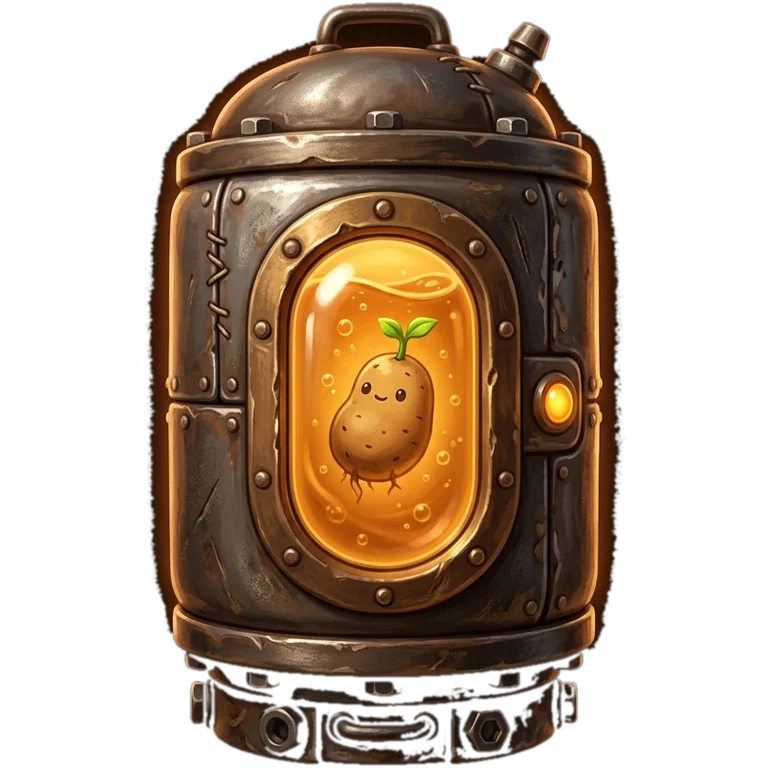
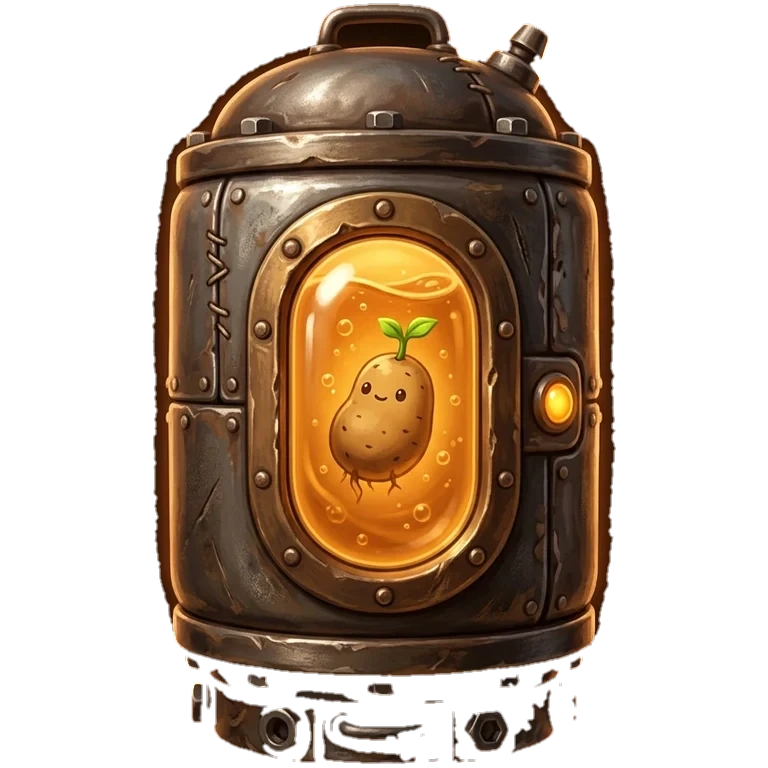
fix(web): честная альфа у гидромодулей вместо срезающей маски
Капсулы cassette-{common,rare,epic}.webp были вырезаны из чёрного фона
грубой мягкой маской: по краю тянулся тёмный подтёк фона (медиана яркости
полупрозрачных пикселей 7–8 при яркости самого модуля 68–77), и края рваные.
В CSS это маскировали `mix-blend-mode: screen` и эллиптической маской —
она-то и срезала края вместе с модулем (жалоба: «на капсулах неаккуратно
обрезан фон»).

Что сделано:
- фон снят ключом по яркости (порог 10…42, сглаженный) — для всех
  полупрозрачных пикселей и для непрозрачных в краевой зоне ≤4 px, двумя
  проходами, чтобы содрать кромку послойно;
- тёмные детали внутри силуэта НЕ тронуты: ключ по яркости к ним не
  применяется. Проверено, что это детали, а не остатки фона: «ровно чёрных»
  пикселей (0…2) в кадрах нет (1 шт. на common), весь диапазон 10–23 — тени;
- убраны спеки и «усы» (эрозия + раскрытие), кромка сглажена, полупрозрачным
  пикселям возвращён настоящий цвет (un-premultiply: они были смешаны с фоном);
- из CSS удалены mix-blend-mode: screen и mask-image — подмешивать больше
  нечего, а маска только портила силуэт.

Замеры (тёмные пиксели в кромке было → стало): common 13 446 → 117,
rare 22 173 → 727, epic 10 250 → 126; доля полупрозрачных 5% → 1.7–2%
(ровная антиалиасинг-полоса), размеры файлов 81/94/105 кБ → 69/79/101 кБ.

Проверено: сборка web (файлы попадают в dist), guards 53/53, unicode-гейт,
secret-scan чист.

diff --git a/game/apps/web/src/ui/hull-ui.css b/game/apps/web/src/ui/hull-ui.css
@@ -369,10 +369,11 @@
   object-fit: contain;
   border-radius: 6px;
   transition: transform 0.3s ease, filter 0.3s ease;
-  /* фон фото растворяется в фоне панели */
-  mix-blend-mode: screen;
-  -webkit-mask-image: radial-gradient(ellipse 72% 68% at 50% 50%, #000 58%, transparent 96%);
-  mask-image: radial-gradient(ellipse 72% 68% at 50% 50%, #000 58%, transparent 96%);
+  /* Раньше фон фото растворяли `mix-blend-mode: screen` и маской-эллипсом:
+     файлы были вырезаны из чёрного фона грубо, и маска срезала края вместе с
+     самим модулем. Теперь в cassette-*.webp настоящая альфа (чёрный подтёк
+     снят ключом по яркости в краевой зоне, тёмные детали модуля сохранены),
+     поэтому ни подмешивать, ни маскировать больше нечего. */
 }
 
 .mini-hydro--common .mini-hydro-img {
